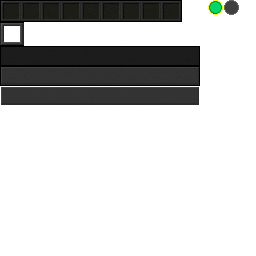
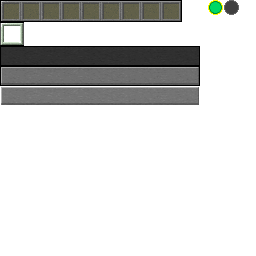
add dark gui toggle

Changed region(s): [[0.0, 0.25, 0.7812, 0.4375], [0.0, 0.0, 0.7188, 0.1875]]

diff --git a/src/game/java/net/minecraft/client/GameSettings.java b/src/game/java/net/minecraft/client/GameSettings.java
@@ -29,13 +29,15 @@ public final class GameSettings {
 	public KeyBinding[] keyBindings = new KeyBinding[]{this.keyBindForward, this.keyBindLeft, this.keyBindBack, this.keyBindRight, this.keyBindJump, this.keyBindDrop, this.keyBindInventory, this.keyBindZoom};
 	private Minecraft mc;
 	private VFile2 optionsFile;
-	public int numberOfOptions = 11;
+	public int numberOfOptions = 12;
 	public int difficulty = 2;
 	public boolean thirdPersonView = false;
 
 	public boolean vsync = true;
 	public boolean showFramerate = true;
 	public boolean showCoords = true;
+	
+	public boolean darkGUI = true;
 
 	public GameSettings(Minecraft var1, VFile2 var2) {
 		this.mc = var1;
@@ -100,11 +102,15 @@ public final class GameSettings {
 			this.showCoords = !this.showCoords;
 		}
 
+		if(var1 == 11) {
+			this.darkGUI = !this.darkGUI;
+		}
+
 		this.saveOptions();
 	}
 
 	public final String setOptionString(int var1) {
-		return var1 == 0 ? "Music: " + (this.music ? "ON" : "OFF") : (var1 == 1 ? "Sound: " + (this.sound ? "ON" : "OFF") : (var1 == 2 ? "Invert mouse: " + (this.invertMouse ? "ON" : "OFF") : (var1 == 3 ? "Debug Info: " + (this.showFPS ? "ON" : "OFF") : (var1 == 4 ? "Render distance: " + RENDER_DISTANCES[this.renderDistance] : (var1 == 5 ? "View bobbing: " + (this.fancyGraphics ? "ON" : "OFF") : (var1 == 6 ? "3d anaglyph: " + (this.anaglyph ? "ON" : "OFF") : (var1 == 7 ? "Use VSync: " + (this.vsync ? "ON" : "OFF") : (var1 == 8 ? "Difficulty: " + DIFFICULTIES[this.difficulty] : (var1 == 9 ? "Show FPS: " + (this.showFramerate ? "ON" : "OFF") : (var1 == 10 ? "Show Coordinates: " + (this.showCoords ? "ON" : "OFF") : ""))))))))));
+		return var1 == 0 ? "Music: " + (this.music ? "ON" : "OFF") : (var1 == 1 ? "Sound: " + (this.sound ? "ON" : "OFF") : (var1 == 2 ? "Invert mouse: " + (this.invertMouse ? "ON" : "OFF") : (var1 == 3 ? "Debug Info: " + (this.showFPS ? "ON" : "OFF") : (var1 == 4 ? "Render distance: " + RENDER_DISTANCES[this.renderDistance] : (var1 == 5 ? "View bobbing: " + (this.fancyGraphics ? "ON" : "OFF") : (var1 == 6 ? "3d anaglyph: " + (this.anaglyph ? "ON" : "OFF") : (var1 == 7 ? "Use VSync: " + (this.vsync ? "ON" : "OFF") : (var1 == 8 ? "Difficulty: " + DIFFICULTIES[this.difficulty] : (var1 == 9 ? "Show FPS: " + (this.showFramerate ? "ON" : "OFF") : (var1 == 10 ? "Show Coordinates: " + (this.showCoords ? "ON" : "OFF") : (var1 == 11 ? "Dark GUI: " + (this.darkGUI ? "ON" : "OFF") : "")))))))))));
 	}
 
 	private void loadOptions() {
@@ -156,6 +162,18 @@ public final class GameSettings {
 						this.difficulty = Integer.parseInt(var5[1]);
 					}
 
+					if(var5[0].equals("showFramerate")) {
+						this.showFramerate = var5[1].equals("true");
+					}
+
+					if(var5[0].equals("showCoords")) {
+						this.showCoords = var5[1].equals("true");
+					}
+
+					if(var5[0].equals("darkGUI")) {
+						this.darkGUI = var5[1].equals("true");
+					}
+
 					for(int var3 = 0; var3 < this.keyBindings.length; ++var3) {
 						if(var5[0].equals("key_" + this.keyBindings[var3].keyDescription)) {
 							this.keyBindings[var3].keyCode = Integer.parseInt(var5[1]);
@@ -181,6 +199,9 @@ public final class GameSettings {
 			var1.println("anaglyph3d:" + this.anaglyph);
 			var1.println("vsync:" + this.vsync);
 			var1.println("difficulty:" + this.difficulty);
+			var1.println("showFramerate:" + this.showFramerate);
+			var1.println("showCoords:" + this.showCoords);
+			var1.println("darkGUI:" + this.darkGUI);
 
 			for(int var2 = 0; var2 < this.keyBindings.length; ++var2) {
 				var1.println("key_" + this.keyBindings[var2].keyDescription + ":" + this.keyBindings[var2].keyCode);

diff --git a/src/main/java/dev/colbster937/eaglercraft/utils/ScuffedUtils.java b/src/main/java/dev/colbster937/eaglercraft/utils/ScuffedUtils.java
@@ -2,8 +2,13 @@ package dev.colbster937.eaglercraft.utils;
 
 import net.lax1dude.eaglercraft.HString;
 import net.lax1dude.eaglercraft.Random;
+import net.minecraft.client.Minecraft;
 
 public class ScuffedUtils {
+  private static final String[] darkGUIs = new String[] {
+    "gui", "inventory", "furnace", "container", "crafting"
+  };
+
   public static String getDefaultUsername() {
     String[] defaultNames = new String[] {
         "Yeeish", "Yeeish", "Yee", "Yee", "Yeer", "Yeeler", "Eagler", "Eagl",
@@ -20,5 +25,17 @@ public class ScuffedUtils {
     } while (name.length() > 16);
 
     return name;
+  }
+
+  public static String getDarkGUI(String path) {
+    if (path.startsWith("/gui/")) {
+      boolean eagler = false;
+      for (String gui : darkGUIs) {
+        if (path.endsWith(gui + ".png")) eagler = true;
+        else continue;
+      }
+      if (eagler && Minecraft.getMinecraft().options.darkGUI) path = "/gui_dark/" + path.substring(5);
+    }
+    return path;
   }
 }

diff --git a/src/game/java/net/minecraft/client/gui/GuiOptions.java b/src/game/java/net/minecraft/client/gui/GuiOptions.java
@@ -18,13 +18,16 @@ public final class GuiOptions extends GuiScreen {
 			if (var1 == 6) continue;
 
 			GuiButton b = new GuiSmallButton(var1, this.width / 2 - 155 + i % 2 * 160, this.height / 6 + 24 * (i >> 1), this.options.setOptionString(var1));
+			
 			if (var1 == 0) b.enabled = false;
+			else if (((var1 + 1) == this.options.numberOfOptions) && ((var1 & 1) == 1)) b = new GuiButton(var1, this.width / 2 - 100, this.height / 6 + 24 * (i >> 1), this.options.setOptionString(var1));
+
 			this.controlList.add(b);
 
 			++i;
 		}
 
-		this.controlList.add(new GuiButton(100, this.width / 2 - 100, this.height / 6 + 120 + 12, "Controls..."));
+		this.controlList.add(new GuiButton(100, this.width / 2 - 100, this.height / 6 + 132 + 12, "Controls..."));
 		this.controlList.add(new GuiButton(200, this.width / 2 - 100, this.height / 6 + 168, "Done"));
 	}
 

diff --git a/src/game/java/net/minecraft/client/render/RenderEngine.java b/src/game/java/net/minecraft/client/render/RenderEngine.java
@@ -15,6 +15,8 @@ import util.GLAllocation;
 
 import org.lwjgl.opengl.GL11;
 
+import dev.colbster937.eaglercraft.utils.ScuffedUtils;
+
 public class RenderEngine {
 	private HashMap textureMap = new HashMap();
 	private HashMap textureContentsMap = new HashMap();
@@ -29,6 +31,7 @@ public class RenderEngine {
 	}
 
 	public final int getTexture(String var1) {
+		var1 = ScuffedUtils.getDarkGUI(var1);
 		Integer var2 = (Integer)this.textureMap.get(var1);
 		if(var2 != null) {
 			return var2.intValue();
